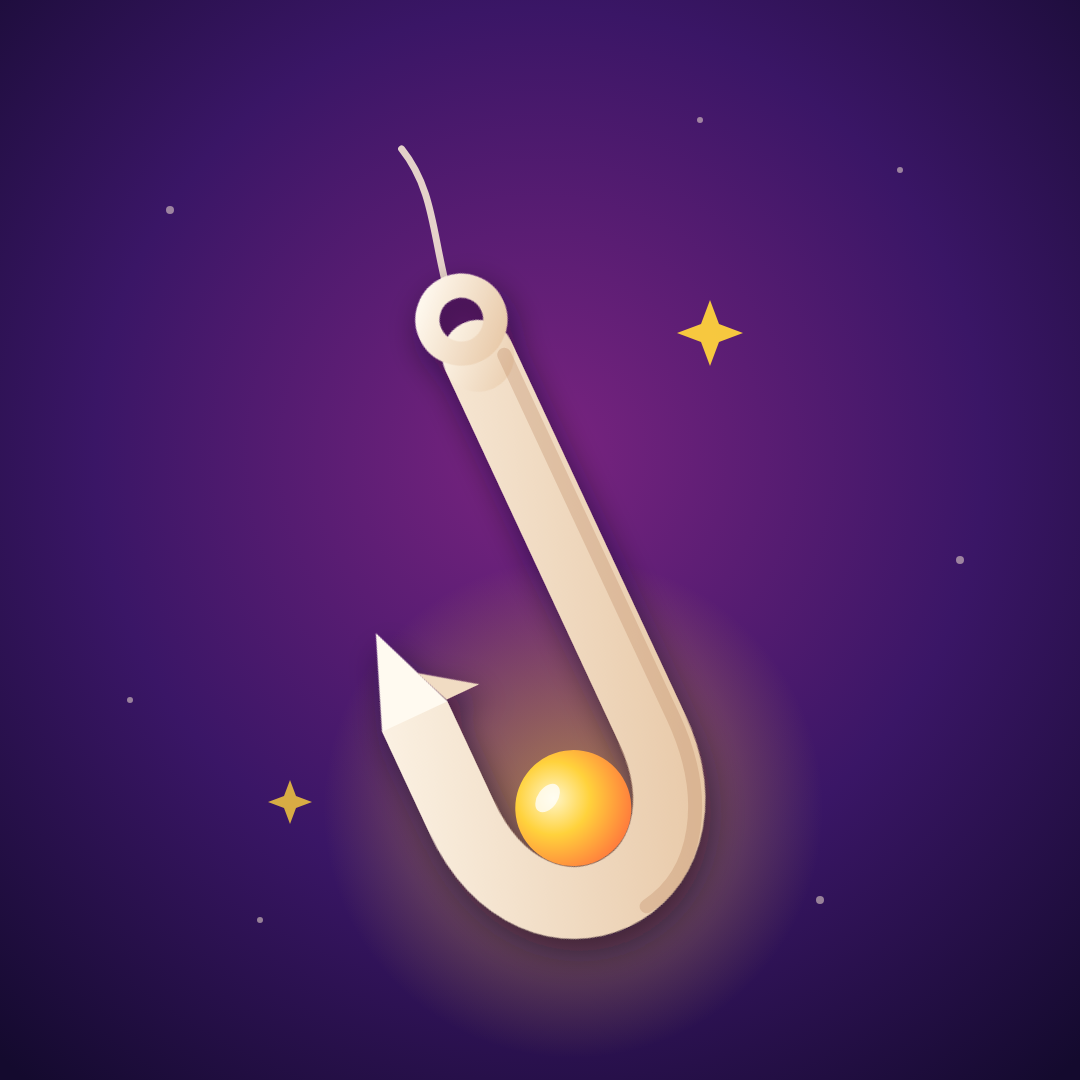
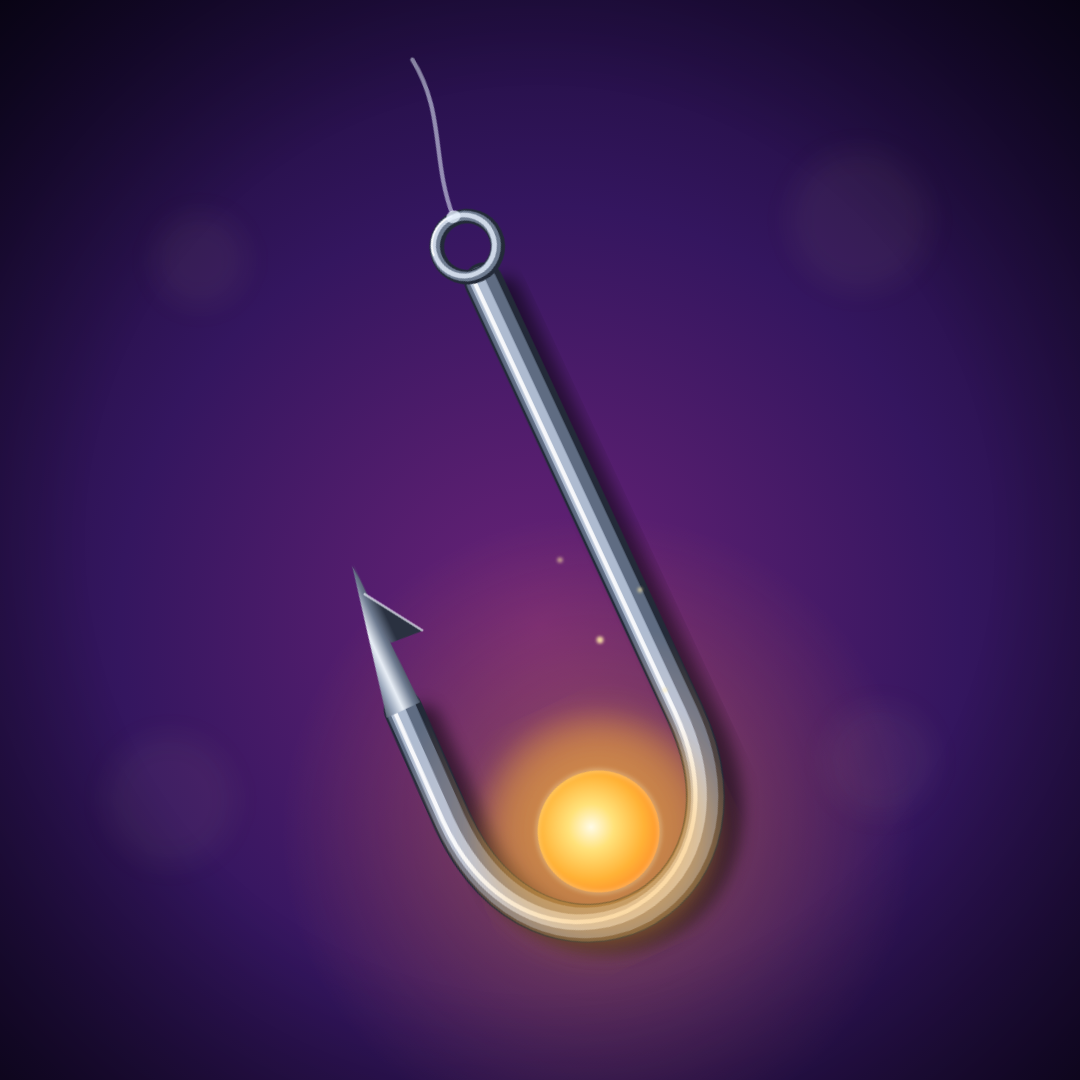
Profilbild Nachgehakt: Haken als realistischer Stahldraht
Claude-Session: https://claude.ai/code/session_01WSyA6AQf1bK2ErukVhFEop

diff --git a/tiktok-auto/brand/profilbild.html b/tiktok-auto/brand/profilbild.html
@@ -1,26 +1,52 @@
 <!doctype html><html><head><meta charset="utf-8"><style>html,body{margin:0;background:#140a2e}svg{display:block}</style></head><body>
 <svg id="s" width="1080" height="1080" viewBox="0 0 1080 1080" xmlns="http://www.w3.org/2000/svg">
 <defs>
- <radialGradient id="bg" cx="50%" cy="42%" r="75%"><stop offset="0" stop-color="#7a2480"/><stop offset=".55" stop-color="#3a1666"/><stop offset="1" stop-color="#140a2e"/></radialGradient>
- <radialGradient id="orb" cx="38%" cy="35%" r="70%"><stop offset="0" stop-color="#fff6c8"/><stop offset=".45" stop-color="#ffd23c"/><stop offset="1" stop-color="#ff7a3c"/></radialGradient>
- <radialGradient id="halo"><stop offset="0" stop-color="#ffd23c" stop-opacity=".55"/><stop offset="1" stop-color="#ffd23c" stop-opacity="0"/></radialGradient>
- <linearGradient id="metal" x1="0" y1="0" x2="1" y2="1"><stop offset="0" stop-color="#fffaf0"/><stop offset="1" stop-color="#e8c9a8"/></linearGradient>
- <filter id="sh" x="-30%" y="-30%" width="160%" height="160%"><feDropShadow dx="0" dy="14" stdDeviation="16" flood-color="#0a0020" flood-opacity=".55"/></filter>
+ <radialGradient id="bg" cx="50%" cy="58%" r="78%"><stop offset="0" stop-color="#6b2378"/><stop offset=".5" stop-color="#34165f"/><stop offset="1" stop-color="#0f0724"/></radialGradient>
+ <radialGradient id="halo"><stop offset="0" stop-color="#ffcf4a" stop-opacity=".65"/><stop offset=".4" stop-color="#ff9a3c" stop-opacity=".22"/><stop offset="1" stop-color="#ff7a3c" stop-opacity="0"/></radialGradient>
+ <radialGradient id="orb" cx="46%" cy="44%" r="62%"><stop offset="0" stop-color="#fffbe6"/><stop offset=".3" stop-color="#ffe27a"/><stop offset=".7" stop-color="#ffb236"/><stop offset="1" stop-color="#ff8a2a"/></radialGradient>
+ <linearGradient id="pt" gradientUnits="userSpaceOnUse" x1="-168" y1="0" x2="-128" y2="0"><stop offset="0" stop-color="#2a3140"/><stop offset=".3" stop-color="#9aa7bb"/><stop offset=".5" stop-color="#e9eff7"/><stop offset=".75" stop-color="#6f7c91"/><stop offset="1" stop-color="#2a3140"/></linearGradient>
+ <radialGradient id="glowmask" gradientUnits="userSpaceOnUse" cx="-45" cy="158" r="170"><stop offset="0" stop-color="#fff"/><stop offset="1" stop-color="#000"/></radialGradient>
+ <mask id="m" maskUnits="userSpaceOnUse" x="-300" y="-600" width="600" height="900"><rect x="-300" y="-600" width="600" height="900" fill="url(#glowmask)"/></mask>
+ <filter id="blur6"><feGaussianBlur stdDeviation="6"/></filter><filter id="blur14"><feGaussianBlur stdDeviation="14"/></filter>
+ <filter id="blur2"><feGaussianBlur stdDeviation="1.6"/></filter>
+ <radialGradient id="vig" cx="50%" cy="50%" r="70%"><stop offset=".6" stop-color="#000" stop-opacity="0"/><stop offset="1" stop-color="#000" stop-opacity=".45"/></radialGradient>
 </defs>
 <rect width="1080" height="1080" fill="url(#bg)"/>
-<g fill="#fff2d9" opacity=".5"><circle cx="170" cy="210" r="4"/><circle cx="900" cy="170" r="3"/><circle cx="960" cy="560" r="4"/><circle cx="130" cy="700" r="3"/><circle cx="820" cy="900" r="4"/><circle cx="260" cy="920" r="3"/><circle cx="700" cy="120" r="3"/></g>
-<g transform="translate(452,548) rotate(-25) translate(45,137)">
- <circle cx="-45" cy="150" r="250" fill="url(#halo)"/>
- <path d="M60 -374 C70 -430 90 -470 78 -520" fill="none" stroke="#fff2d9" stroke-opacity=".85" stroke-width="7" stroke-linecap="round"/>
- <g filter="url(#sh)">
-  <path d="M60 -300 V110 C60 290 -150 290 -150 110 L-150 0" fill="none" stroke="url(#metal)" stroke-width="72" stroke-linecap="butt" stroke-linejoin="round"/>
-  <polygon points="-186,0 -114,0 -150,-92" fill="#fffaf0"/>
-  <polygon points="-129,-38 -78,-2 -114,-2" fill="#f1dcc3"/>
-  <circle cx="60" cy="-300" r="36" fill="url(#metal)"/><circle cx="60" cy="-340" r="34" fill="none" stroke="url(#metal)" stroke-width="24"/>
+<g fill="#ffd9a0" filter="url(#blur14)"><circle cx="200" cy="260" r="46" opacity=".05"/><circle cx="860" cy="220" r="70" opacity=".05"/><circle cx="880" cy="760" r="54" opacity=".05"/><circle cx="170" cy="800" r="64" opacity=".05"/></g>
+<g transform="translate(445,502) rotate(-25) scale(1.22) translate(45,140)">
+ <circle cx="-45" cy="158" r="260" fill="url(#halo)"/>
+ <!-- Schnur -->
+ <path d="M60 -350 C64 -400 90 -430 84 -480" fill="none" stroke="#e8f2ff" stroke-opacity=".55" stroke-width="3.5" stroke-linecap="round"/>
+ <!-- Schatten des Drahtes -->
+ <g filter="url(#blur6)" opacity=".5" transform="translate(10,16)"><path d="M60 -290 V100 C60 275 -150 275 -150 100 L-148 0" fill="none" stroke="#000" stroke-width="30" stroke-linecap="round"/></g>
+ <!-- Draht: Zylinder-Schattierung aus vier Lagen -->
+ <g id="wire" fill="none" stroke-linecap="round" stroke-linejoin="round">
+  <path d="M60 -290 V100 C60 275 -150 275 -150 100 L-148 0" stroke="#232a38" stroke-width="32"/>
+  <path d="M60 -290 V100 C60 275 -150 275 -150 100 L-148 0" stroke="#5f6c82" stroke-width="25" transform="translate(-1.5,-1)"/>
+  <path d="M60 -290 V100 C60 275 -150 275 -150 100 L-148 0" stroke="#aebbd0" stroke-width="13" transform="translate(-4.5,-3)"/>
+  <path d="M60 -290 V100 C60 275 -150 275 -150 100 L-148 0" stroke="#ffffff" stroke-width="3.5" stroke-opacity=".9" transform="translate(-7,-4.5)"/>
  </g>
- <path d="M84 -290 V110 C84 200 40 262 -20 270" fill="none" stroke="#b9855f" stroke-opacity=".3" stroke-width="14" stroke-linecap="round"/>
- <circle cx="-45" cy="150" r="58" fill="url(#orb)"/>
- <ellipse cx="-64" cy="130" rx="16" ry="10" fill="#fff" opacity=".75" transform="rotate(-30 -64 130)"/>
-</g>
-<g fill="#ffd23c"><path transform="translate(-60,0)" d="M770 300 l9 24 24 9 -24 9 -9 24 -9 -24 -24 -9 24 -9z" opacity=".95"/><path d="M290 780 l6 16 16 6 -16 6 -6 16 -6 -16 -16 -6 16 -6z" opacity=".8"/></g>
+ <!-- warmer Widerschein vom Funken -->
+ <path d="M60 -20 V100 C60 275 -150 275 -150 100 L-148 -10" fill="none" stroke="#ff9a3c" stroke-width="30" stroke-linecap="round" opacity=".6" mask="url(#m)" style="mix-blend-mode:screen"/>
+ <!-- Spitze mit Widerhaken -->
+ <polygon points="-163,0 -133,0 -134,-6 -135,-125 -141,-40" fill="url(#pt)"/>
+ <polygon points="-163,0 -133,0 -136,-125" fill="url(#pt)"/>
+ <polygon points="-137,-100 -106,-52 -134,-54" fill="url(#pt)"/>
+ <path d="M-137 -100 L-106 -52" stroke="#e9eff7" stroke-width="2" opacity=".7"/>
+ <!-- Oese -->
+ <g fill="none">
+  <circle cx="60" cy="-322" r="25" stroke="#232a38" stroke-width="12"/>
+  <circle cx="60" cy="-322" r="25" stroke="#6f7c91" stroke-width="8" transform="translate(-1,-1)"/>
+  <circle cx="60" cy="-322" r="25" stroke="#cfd9e8" stroke-width="4" transform="translate(-2,-2)"/>
+  <circle cx="60" cy="-322" r="25" stroke="#fff" stroke-width="1.6" stroke-opacity=".9" transform="translate(-3,-3)" stroke-dasharray="40 200" stroke-dashoffset="-80"/>
+ </g>
+ <!-- Knoten -->
+ <ellipse cx="60" cy="-349" rx="6" ry="5" fill="#e8f2ff" opacity=".75"/>
+ <!-- Funke -->
+ <circle cx="-45" cy="158" r="92" fill="#ffb236" opacity=".45" filter="url(#blur14)"/>
+ <circle cx="-45" cy="158" r="50" fill="url(#orb)"/>
+ <circle cx="-45" cy="158" r="50" fill="none" stroke="#fff6c8" stroke-opacity=".5" stroke-width="2" filter="url(#blur2)"/>
+ </g>
+<g fill="#ffe9a8" filter="url(#blur2)"><circle cx="600" cy="640" r="3.4" opacity=".9"/><circle cx="640" cy="590" r="2.4" opacity=".7"/><circle cx="560" cy="560" r="2.8" opacity=".6"/><circle cx="665" cy="690" r="2.2" opacity=".6"/></g>
+<rect width="1080" height="1080" fill="url(#vig)"/>
 </svg></body></html>
